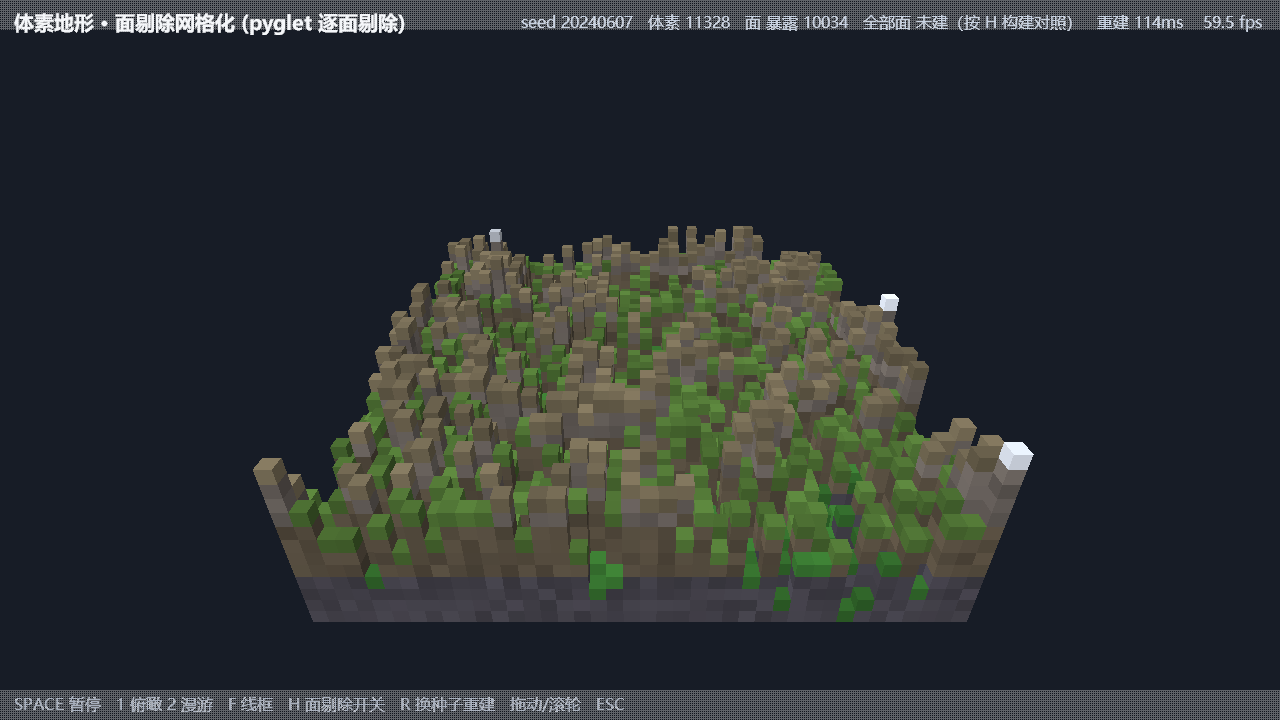
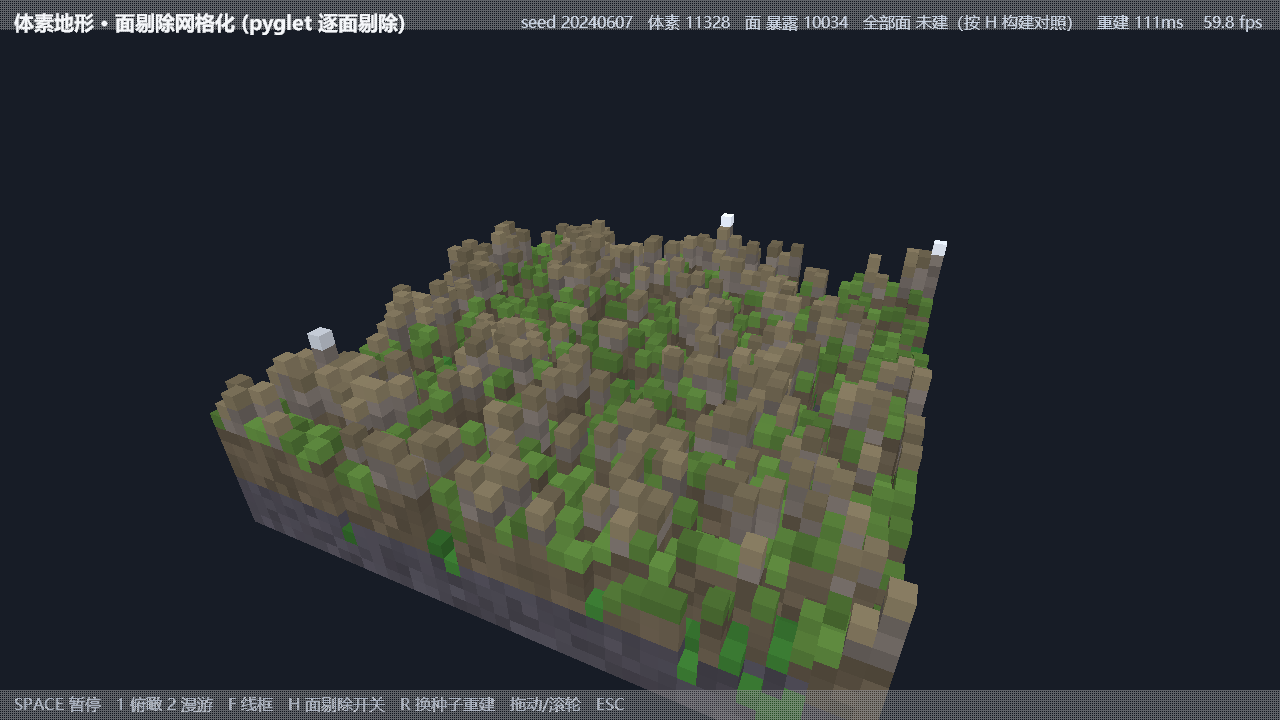
fix(examples): 补 GL_LINE 导入 + 合并 voxel_terrain 被覆盖的 update
门禁 ruff 补上配置后首次全量扫描暴露的两类真缺陷（F821 x5 / F811 x2）：

1. 五个演示在 wire 模式下 `glPolygonMode(..., GL_LINE)` 引用未定义名 ——
   import 列表里有 GL_LINES 却没有 GL_LINE，正常跑不触发、按 W 就崩。
   顺带把 `self.wire` 接到 `--flag wire`：原先只能按键切换，等于没法做
   自动化回归；现在这条路径能被冒烟覆盖。

2. voxel_terrain 的 `update` 定义了两次，第二个（"输入"区注释后那三行
   step_reseed）按后定义覆盖前定义，把整段漫游相机 + 地形避让废掉了。
   合并回同一个方法，保留"暂停时也继续换种子"的原语义。
   证据：修复后 8s/27s 两帧 PSNR = 18.83dB（<20 即显著不同），相机确实在动；
   若仍处于覆盖状态，静态地形只会给出 inf。

另删 _wardfall_nordic 函数内多余的 MeshData 局部导入（模块级已有）。

ruff 基线 24 -> 17 条（剩余为未使用局部变量 / 空 f-string 的清理项）。

Changed region(s): [[0.1562, 0.3056, 0.8125, 1.0]]

diff --git a/examples/voxel_terrain.py b/examples/voxel_terrain.py
@@ -379,6 +379,13 @@ class VoxelDemo(DemoApp):
         return (yaw, 16.0, 19.0, x0, y0, z0)
 
     def update(self, dt):
+        # 换种子期间每帧啃几列，不冻画面。
+        # 2026-11-22 修复 F811：这段原本是**第二个同名 update**（定义在 "输入" 区注释后），
+        # 按 Python 后定义覆盖前定义，把下面整段漫游相机 + 地形避让逻辑全废掉了。
+        # 现合并回本方法，两段逻辑都生效；放在 paused 判断之前，保持"暂停时也继续换种子"
+        # 的原语义（原第二个 update 没有 paused 检查）。
+        if self._rb is not None:
+            self.step_reseed()
         if self.paused:
             return
         self.auto.absorb()
@@ -415,10 +422,6 @@ class VoxelDemo(DemoApp):
             vlist.draw(GL_TRIANGLES)
 
     # --------------------------------------------------------------- 输入 --
-    def update(self, dt):
-        if self._rb is not None:
-            self.step_reseed()          # 换种子期间每帧啃几列，不冻画面
-
     def on_key(self, symbol, modifiers):
         key = pyglet.window.key
         if symbol in (key._1, key._2):

diff --git a/examples/ozzward.py b/examples/ozzward.py
@@ -60,8 +60,8 @@ import random
 
 import numpy as np
 from pyglet.gl import (GL_BLEND, GL_COLOR_BUFFER_BIT, GL_DEPTH_BUFFER_BIT,
-                       GL_DEPTH_TEST, GL_FILL, GL_FRONT_AND_BACK, GL_LINES,
-                       GL_ONE_MINUS_SRC_ALPHA, GL_POINTS, GL_SRC_ALPHA,
+                       GL_DEPTH_TEST, GL_FILL, GL_FRONT_AND_BACK, GL_LINE,
+                       GL_LINES, GL_ONE_MINUS_SRC_ALPHA, GL_POINTS, GL_SRC_ALPHA,
                        GL_TRIANGLES, glBlendFunc, glClear, glClearColor,
                        glEnable, glPolygonMode)
 from pyglet.graphics.shader import Shader, ShaderProgram
@@ -186,7 +186,7 @@ class Ozzward(DemoApp):
         self.prog = ShaderProgram(Shader(VERT, 'vertex'), Shader(FRAG, 'fragment'))
         self.bone_prog = ShaderProgram(Shader(BONE_VERT, 'vertex'),
                                        Shader(BONE_FRAG, 'fragment'))
-        self.wire = False
+        self.wire = 'wire' in self.args.flags      # --flag wire：线框对照（也用于验证 GL_LINE 路径）
         self.show_bones = False
         self.rng = random.Random(SEED)
         self.n_joints = N_JOINTS

diff --git a/examples/terrainward.py b/examples/terrainward.py
@@ -58,7 +58,7 @@ SPACE 暂停（同时停掉相机自动旋转）          L 切换 SHADE / FLAT 
 import math
 
 from pyglet.gl import (GL_COLOR_BUFFER_BIT, GL_DEPTH_BUFFER_BIT, GL_DEPTH_TEST,
-                       GL_FILL, GL_FRONT_AND_BACK, GL_TRIANGLES, glClear,
+                       GL_FILL, GL_FRONT_AND_BACK, GL_LINE, GL_TRIANGLES, glClear,
                        glClearColor, glEnable, glPolygonMode)
 from pyglet.graphics.shader import Shader, ShaderProgram
 from pyglet.math import Mat4, Vec3
@@ -120,7 +120,7 @@ class Terrainward(DemoApp):
         self.step = STEP
         self.seed = SEED0
         self.flat = False                 # False=完整坡面光照，True=纯高度分层
-        self.wire = False
+        self.wire = 'wire' in self.args.flags      # --flag wire：线框对照（也用于验证 GL_LINE 路径）
         self.L = _norm(LIGHT_DIR)
         self.cam = OrbitCamera(target=Vec3(0, 0, 0), yaw=35.0, pitch=56.0,
                                dist=220.0, pitch_range=(8.0, 85.0),

diff --git a/examples/fsmward.py b/examples/fsmward.py
@@ -48,8 +48,8 @@ import math
 import random
 
 from pyglet.gl import (GL_BLEND, GL_COLOR_BUFFER_BIT, GL_DEPTH_BUFFER_BIT,
-                       GL_DEPTH_TEST, GL_FILL, GL_FRONT_AND_BACK, GL_LINES,
-                       GL_LINE_STRIP, GL_POLYGON_MODE, GL_TRIANGLES,
+                       GL_DEPTH_TEST, GL_FILL, GL_FRONT_AND_BACK, GL_LINE,
+                       GL_LINES, GL_LINE_STRIP, GL_POLYGON_MODE, GL_TRIANGLES,
                        glClear, glClearColor, glEnable, glPolygonMode)
 from pyglet.graphics.shader import Shader, ShaderProgram
 from pyglet.math import Mat4, Vec3
@@ -314,7 +314,7 @@ class FsmWard(DemoApp):
         self.attack_r = 1.6
         self.speeds = {'patrol': 2.2, 'chase': 4.5, 'attack': 3.0, 'flee': 5.0}
         self.click_mode = False
-        self.wire = False
+        self.wire = 'wire' in self.args.flags      # --flag wire：线框对照（也用于验证 GL_LINE 路径）
         self.frame = 0
         self.recent = []
         self.phase = 'calm'

diff --git a/examples/crowdward.py b/examples/crowdward.py
@@ -52,8 +52,8 @@ import math
 import random
 
 from pyglet.gl import (GL_COLOR_BUFFER_BIT, GL_DEPTH_BUFFER_BIT,
-                       GL_DEPTH_TEST, GL_FILL, GL_FRONT_AND_BACK, GL_LINES,
-                       GL_TRIANGLES, glClear, glClearColor, glEnable,
+                       GL_DEPTH_TEST, GL_FILL, GL_FRONT_AND_BACK, GL_LINE,
+                       GL_LINES, GL_TRIANGLES, glClear, glClearColor, glEnable,
                        glPolygonMode)
 from pyglet.graphics.shader import Shader, ShaderProgram
 from pyglet.math import Mat4, Vec3
@@ -382,7 +382,7 @@ class Crowdward(DemoApp):
             if s[0] in self.args.flags:
                 self.scene_i = i
         self.show_paths = True
-        self.wire = False
+        self.wire = 'wire' in self.args.flags      # --flag wire：线框对照（也用于验证 GL_LINE 路径）
         self.rng = random.Random(20261026)
         self.ctx = Context()
         self.astar_calls = 0

diff --git a/examples/box2dward.py b/examples/box2dward.py
@@ -51,7 +51,7 @@ import math
 import random
 
 from pyglet.gl import (GL_COLOR_BUFFER_BIT, GL_DEPTH_BUFFER_BIT, GL_DEPTH_TEST,
-                       GL_FILL, GL_FRONT_AND_BACK, GL_TRIANGLES, glClear,
+                       GL_FILL, GL_FRONT_AND_BACK, GL_LINE, GL_TRIANGLES, glClear,
                        glClearColor, glEnable, glPolygonMode)
 from pyglet.graphics.shader import Shader, ShaderProgram
 from pyglet.math import Mat4, Vec3
@@ -210,7 +210,7 @@ class Box2Dward(DemoApp):
         self.box_vl = self.meshes['box']
         self.sphere_vl = self.meshes['sphere']
 
-        self.wire = False
+        self.wire = 'wire' in self.args.flags      # --flag wire：线框对照（也用于验证 GL_LINE 路径）
         self.show_contacts = True
         self.acc = 0.0
         self.sim_t = 0.0

diff --git a/examples/_wardfall_nordic.py b/examples/_wardfall_nordic.py
@@ -445,7 +445,6 @@ def dragon_body_mesh():
 
 def dragon_wing_mesh(side=1.0):
     """单侧翼（枢轴在原点，+x 展开）。side=-1 时镜像到 -x。"""
-    from world3d.engine.geometry import MeshData
     p = ((0.00, 0.00, 0.00), (2.55, 1.30, 0.60), (2.95, 0.80, -0.12),
          (2.25, 0.30, -1.00), (1.18, 0.04, -1.30), (0.25, -0.03, -0.74))
     tris = ((0, 1, 2), (0, 2, 3), (0, 3, 4), (0, 4, 5))
